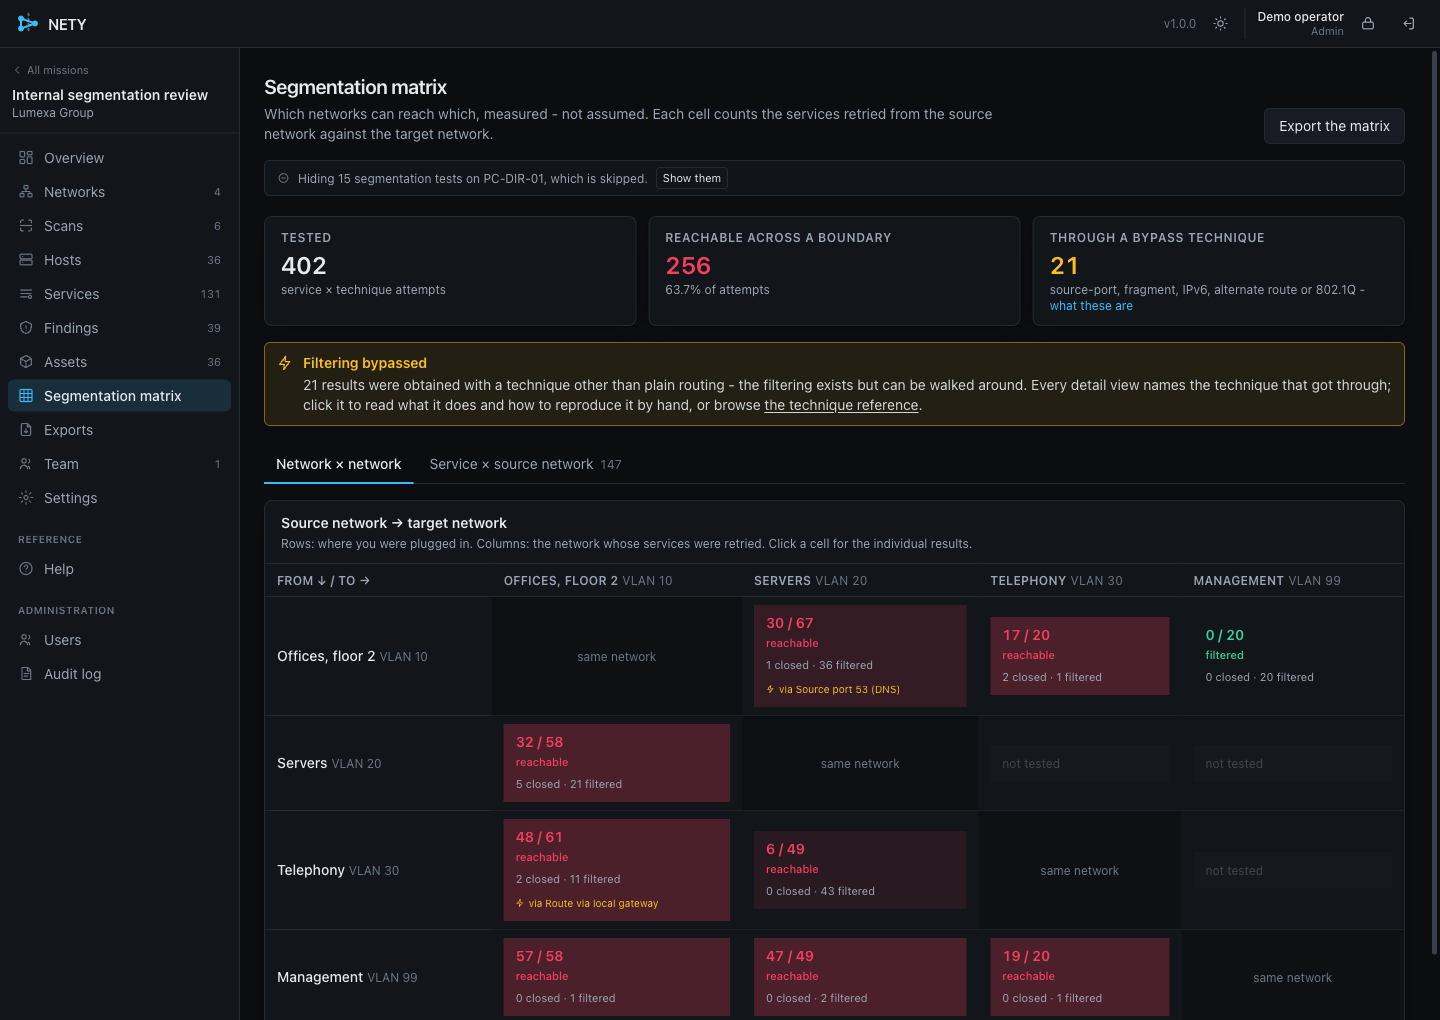
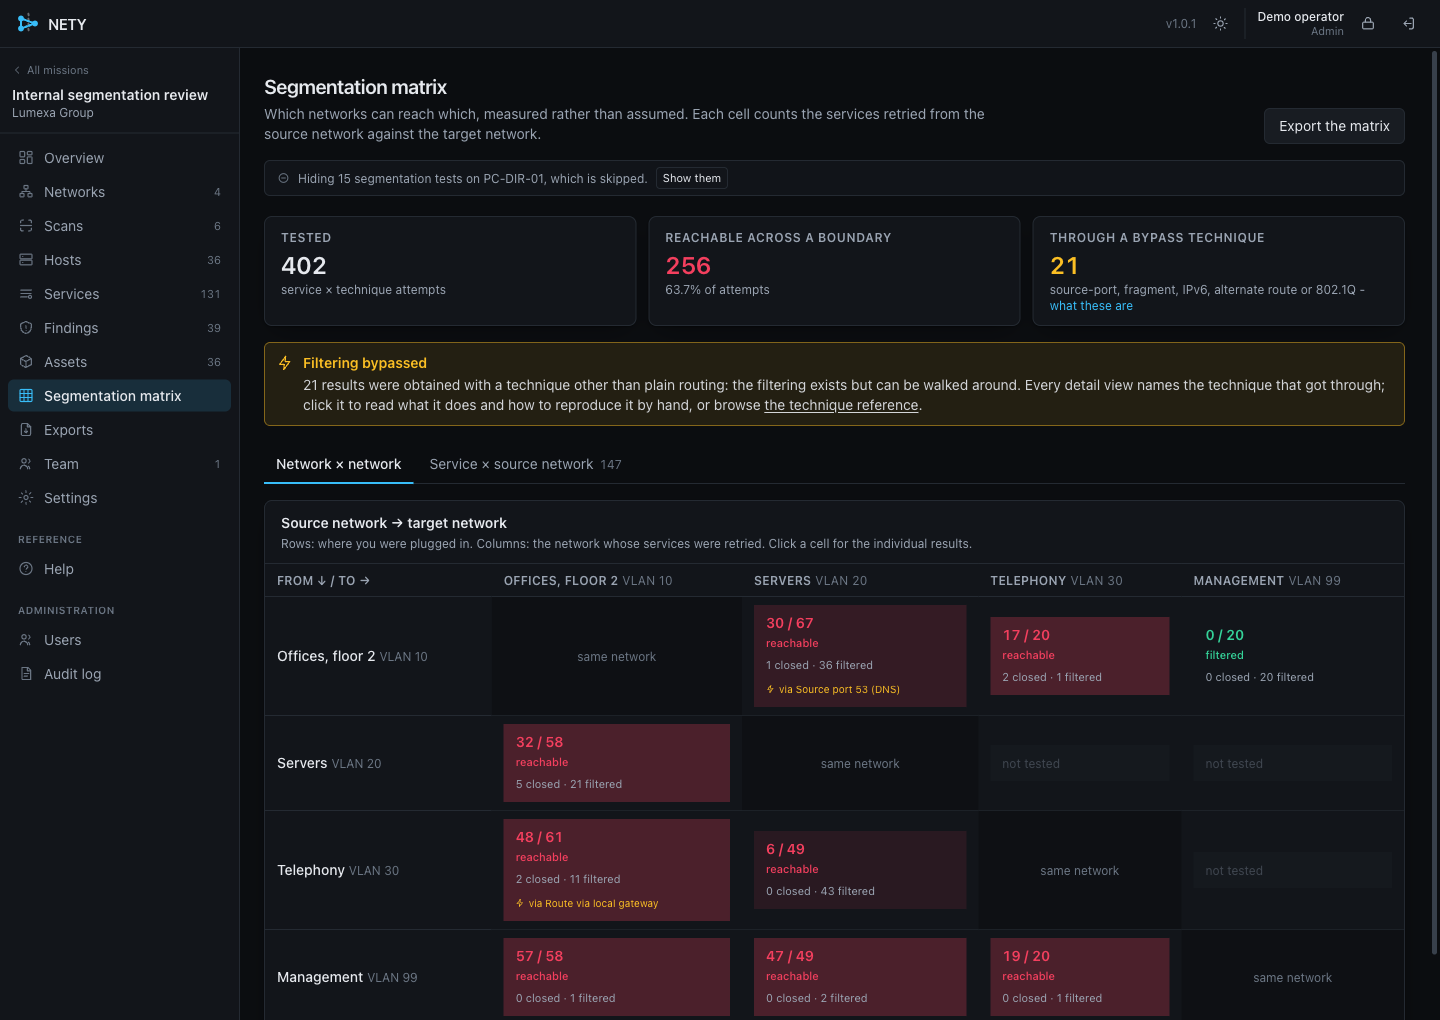
docs: this is segmentation testing, and a VLAN is only one way to draw the boundary
The tagline said "map every VLAN", which names the wrong thing. A VLAN
filters nothing on its own: it is an 802.1Q split of a layer-2 broadcast
domain, and two VLANs are separated only in the sense that a broadcast in one
does not reach the other. Whatever routes between them, a router, a layer-3
switch or a firewall, is where the filtering lives, and that filtering is
layer 3.

So what NETY measures is the IP filtering between segments, and that is the
same test whether the boundary is a VLAN, a firewall zone, a DMZ against an
office network, separate subnets with no VLAN anywhere, or a guest SSID. The
tool was already built this way: its unit is a *network*, which is a point you
attach to, and every routing-level technique works against any layer-3
boundary. Only the prose claimed otherwise.

So the tagline is "Network segmentation testing for internal pentests.
Measured, not assumed", with VLANs kept as the first example, because it is
the commonest case on an internal and the word a pentester searches for.

What stays VLAN-specific stays VLAN-specific and is now said to be: the
passive CDP, LLDP, DTP and STP recon of a switch port, and the hopping
techniques. Those attack the layer-2 split itself rather than the filtering
above it, which is why they are the ones that can make a boundary disappear
rather than merely find a hole in it. Both are skipped where there is no
switch port, and the README and the field manual say so.
[…]

Changed region(s): [[0.5, 0.3647, 0.9688, 0.3951], [0.375, 0.0912, 0.6875, 0.1216], [0.1875, 0.1216, 0.375, 0.152]]

diff --git a/web/src/pages/mission/ScanLauncherPage.tsx b/web/src/pages/mission/ScanLauncherPage.tsx
@@ -370,7 +370,7 @@ export default function ScanLauncherPage() {
         <Card>
           <EmptyState
             icon={<NetworkIcon width={20} height={20} />}
-            title="Create a network for the VLAN you are plugged into"
+            title="Create a network for the segment you are plugged into"
             description="A scan always runs from a network: it tells NETY which interface to use, which prefixes are local and what the switch port looks like."
             action={
               <LinkButton to="../networks" variant="primary">
@@ -712,8 +712,8 @@ export default function ScanLauncherPage() {
                 Nothing is discovered and no address is scanned. The test replays the
                 hosts and services <strong>already inventoried</strong> on the networks
                 you pick, from where you are plugged in now, and records what answers.
-                Scan each VLAN once from inside it, then come here from each position in
-                turn: one run per direction fills that row of the matrix.
+                Scan each segment once from inside it, then come here from each position
+                in turn: one run per direction fills that row of the matrix.
               </InlineAlert>
 
               <div>
@@ -723,8 +723,8 @@ export default function ScanLauncherPage() {
                 </p>
                 {otherNetworks.length === 0 ? (
                   <InlineAlert tone="warn">
-                    This mission has only one network. Add the other VLAN and discover it
-                    from inside before testing segmentation.
+                    This mission has only one network. Add the other segment and discover
+                    it from inside before testing segmentation.
                   </InlineAlert>
                 ) : (
                   <div className="grid gap-2 sm:grid-cols-2 lg:grid-cols-3">
@@ -772,7 +772,7 @@ export default function ScanLauncherPage() {
                   <InlineAlert tone="warn" className="mt-3">
                     {sourceIds.length > 0
                       ? 'Nothing has been discovered on the networks you ticked, so there is nothing to replay. Run a discovery from inside each of them first, or tick a network that has results.'
-                      : 'No other network has any result yet. Plug into each VLAN in turn and run a discovery there, then come back and test segmentation.'}
+                      : 'No other network has any result yet. Plug into each segment in turn and run a discovery there, then come back and test segmentation.'}
                   </InlineAlert>
                 )}
                 {reachableTargets.services > 0 && (

diff --git a/web/src/pages/mission/OverviewPage.tsx b/web/src/pages/mission/OverviewPage.tsx
@@ -123,7 +123,7 @@ export default function OverviewPage() {
         <Card className="mt-5">
           <EmptyState
             icon={<NetworkIcon width={20} height={20} />}
-            title="Create a network for the VLAN you are plugged into"
+            title="Create a network for the segment you are plugged into"
             description="A network records the segment you are attached to: its interface, addressing, gateway, DNS and the passive L2 recon of the switch port. Everything else in the mission hangs off it."
             action={
               canWrite && (
@@ -193,7 +193,7 @@ export default function OverviewPage() {
           <Card className="mt-4">
             <CardHeader
               title="Findings by network"
-              description="Which VLAN carries the exposure, worst first. Each bar is one network, stacked critical first and scaled against the busiest network."
+              description="Which segment carries the exposure, worst first. Each bar is one network, stacked critical first and scaled against the busiest network."
               actions={
                 <LinkButton to={`${base}/findings`} size="sm">
                   All findings
@@ -289,7 +289,7 @@ export default function OverviewPage() {
             <Card>
               <CardHeader
                 title="Networks"
-                description="Each VLAN or attachment point you declared"
+                description="Each segment or attachment point you declared"
                 actions={
                   <LinkButton to={`${base}/networks`} size="sm">
                     Manage

diff --git a/web/src/pages/mission/NetworksPage.tsx b/web/src/pages/mission/NetworksPage.tsx
@@ -185,7 +185,7 @@ function NetworkFormModal({
       onClose={onClose}
       size="lg"
       title={existing ? `Edit ${existing.name}` : 'New network'}
-      description="One network per VLAN or attachment point you plug into."
+      description="One network per segment you plug into: a VLAN, a firewall zone, a plain subnet."
       footer={
         <>
           <Button onClick={onClose}>Cancel</Button>
@@ -607,7 +607,7 @@ export default function NetworksPage() {
     <PageContainer>
       <PageHeader
         title="Networks"
-        description="The VLANs and attachment points of this mission, with the passive L2 recon of each switch port."
+        description="The segments of this mission, with the passive L2 recon of each switch port."
         actions={
           canWrite && (
             <Button
@@ -653,7 +653,7 @@ export default function NetworksPage() {
           <Card>
             <EmptyState
               icon={<NetworkIcon width={20} height={20} />}
-              title="Create a network for the VLAN you are plugged into"
+              title="Create a network for the segment you are plugged into"
               description="Plug into the segment, then let NETY auto-detect the interface: it reads the addressing, gateway, DNS and DHCP lease and pre-fills everything. Repeat for each VLAN you visit."
               action={
                 canWrite && (

diff --git a/web/src/pages/mission/MatrixPage.tsx b/web/src/pages/mission/MatrixPage.tsx
@@ -242,7 +242,7 @@ export default function MatrixPage() {
           <EmptyState
             icon={<MatrixIcon width={20} height={20} />}
             title="No segmentation result yet"
-            description="Plug into one VLAN, declare it as a network, then launch a segmentation scan: NETY replays every service discovered on the other networks from where you stand and fills this grid live."
+            description="Plug into one segment, declare it as a network, then launch a segmentation scan: NETY replays every service discovered on the other networks from where you stand and fills this grid live."
             action={
               <LinkButton to="../scans/new?kind=segmentation" variant="primary">
                 Launch a segmentation scan
@@ -474,7 +474,7 @@ export default function MatrixPage() {
             <Card className="mt-4">
               <CardHeader
                 title="Service × source network"
-                description="One row per service discovered on another VLAN; one column per position you tested from."
+                description="One row per service discovered on another segment; one column per position you tested from."
                 actions={
                   <SearchInput
                     value={query}

diff --git a/web/src/pages/MissionsPage.tsx b/web/src/pages/MissionsPage.tsx
@@ -393,7 +393,7 @@ export default function MissionsPage() {
                 }
                 description={
                   all.length === 0
-                    ? 'Create a mission for the engagement you are starting. You will then declare the VLAN you are plugged into as a network, and launch a discovery scan on it.'
+                    ? 'Create a mission for the engagement you are starting. You will then declare the segment you are plugged into as a network, and launch a discovery scan on it.'
                     : 'Clear the filter, or include archived missions.'
                 }
                 action={

diff --git a/cmd/nety/main.go b/cmd/nety/main.go
@@ -1,5 +1,5 @@
-// Command nety is the NETY server: an internal-network mapping and VLAN segmentation
-// testing platform.
+// Command nety is the NETY server: an internal-network mapping and network
+// segmentation testing platform.
 //
 //	nety serve                 start the web platform
 //	nety user add <name>       create an account
@@ -69,7 +69,7 @@ func run(args []string) error {
 }
 
 func usage() {
-	fmt.Fprint(os.Stderr, `NETY - internal network mapping and VLAN segmentation testing
+	fmt.Fprint(os.Stderr, `NETY: internal network mapping and network segmentation testing
 
 Usage:
   nety serve [flags]            start the web platform

diff --git a/internal/segment/segment.go b/internal/segment/segment.go
@@ -1,6 +1,7 @@
-// Package segment answers the question a VLAN segmentation audit exists to answer:
+// Package segment answers the question a network segmentation audit exists to answer:
 // plugged into network S, which of the services inventoried on networks T != S can
-// actually be reached, and how.
+// actually be reached, and how. The boundary between S and T is whatever the client
+// built it out of: a VLAN, a firewall zone, a plain subnet.
 //
 // For every (target, technique) pair it emits one model.ReachResult as soon as the
 // verdict is known, so the operator watches the reachability matrix fill up live.

diff --git a/internal/api/diff_api_test.go b/internal/api/diff_api_test.go
@@ -9,7 +9,7 @@ import (
 	"github.com/GoToolSharing/nety/internal/model"
 )
 
-// A scan of a VLAN only means something next to the previous one, which is what this
+// A scan of a segment only means something next to the previous one, which is what this
 // route answers. The seeding below walks the two passes in order so the finish stamps
 // come out in the right order too.
 

diff --git a/README.md b/README.md
@@ -2,8 +2,10 @@
 
 <img src="docs/images/logo.svg" alt="NETY" width="420">
 
-**Map every VLAN on an internal pentest, then measure which ones can actually
-reach each other.**
+**Network segmentation testing for internal pentests. Measured, not assumed.**
+
+Map every segment you can reach (VLANs, firewall zones, subnets), then find
+out which of them can actually talk to each other.
 
 [![CI](https://github.com/GoToolSharing/nety/actions/workflows/ci.yml/badge.svg)](https://github.com/GoToolSharing/nety/actions/workflows/ci.yml)
 [![Release](https://img.shields.io/github/v/release/GoToolSharing/nety?color=0ea5e9)](https://github.com/GoToolSharing/nety/releases/latest)
@@ -11,14 +13,21 @@ reach each other.**
 
 </div>
 
-You plug into a switch port, NETY maps that segment and fingerprints everything
-on it. You move to the next VLAN and repeat. Then, from any one of them, it
+You plug in somewhere, NETY maps that segment and fingerprints everything on
+it. You move to the next one and repeat. Then, from any one of them, it
 replays every service it found elsewhere and tells you exactly which flows
 cross the boundary, by plain routing or by working around the filtering.
 
+A VLAN on its own filters nothing: it is a layer-2 split of a broadcast
+domain. What actually holds, or does not, is the layer-3 filtering between
+segments, and that is the same test whether the boundary is a VLAN, a firewall
+zone, a DMZ or a guest SSID. The VLAN-specific part, the passive CDP, LLDP and
+DTP recon and the 802.1Q hopping techniques, is there too, and is simply
+skipped where there is no switch port to read.
+
 One static Go binary, an authenticated web interface, and no `nmap` or
 `masscan` subprocess: the scanning is native, so results stream out as they are
-found instead of landing in a file at the end. A colleague on the same VLAN
+found instead of landing in a file at the end. A colleague on the same network
 opens your IP in a browser, signs in, and watches the same scan live.
 
 ![Mission overview](docs/images/overview.png)
@@ -48,11 +57,16 @@ make test    # the whole test suite
 
 ## How it works
 
-### 1. One network per VLAN
+### 1. One network per segment
 
-Declare each attachment point. A passive layer-2 capture reads CDP and LLDP,
-the native and voice VLAN, the 802.1Q tags on the wire, and whether the port
-offers DTP. A port that negotiates trunking is a finding in itself.
+Declare each point you attach to: a VLAN access port, a firewall zone, a plain
+subnet.
+
+On a switch port there is a passive layer-2 capture as well, reading CDP and
+LLDP, the native and voice VLAN, the 802.1Q tags on the wire, and whether the
+port offers DTP. A port that negotiates trunking is a finding in itself. Where
+there is no switch port, over Wi-Fi or behind a firewall, that step is skipped
+and everything else works the same.
 
 ![Networks and switch-port recon](docs/images/networks.png)
 
@@ -66,7 +80,7 @@ exactly where it stopped. Kill the process mid-scan and it comes back as
 
 ![Live scan](docs/images/scan.png)
 
-### 3. Repeat on every VLAN
+### 3. Repeat on every segment
 
 Move the cable, add a network, scan again. Machines keep one identity across
 days and IP changes: NETY correlates the SMB server GUID, SNMP engine ID, SSH
@@ -76,10 +90,10 @@ brand-new one.
 
 ### 4. Test the segmentation
 
-From where you are plugged in now, every service discovered on the other VLANs
-is retried, several ways each: plain routing, ICMP, privileged source ports,
-IPv6, an alternate gateway, fragmentation, and optionally 802.1Q and DTP. The
-matrix is the deliverable.
+From where you are plugged in now, every service discovered on the other
+segments is retried, several ways each: plain routing, ICMP, privileged source
+ports, IPv6, an alternate gateway, fragmentation, and, where the boundary is a
+VLAN and you enable them, 802.1Q and DTP. The matrix is the deliverable.
 
 ![Segmentation matrix](docs/images/matrix.png)
 
@@ -115,7 +129,7 @@ the triage, the notes and the pending work units intact.
 | **Native scanning** | Stateless SYN with AF_PACKET and BPF, connect fallback, UDP with protocol payloads. No subprocess. |
 | **Live results** | Every host, port, service and finding is persisted and pushed to the browser the moment it is found. |
 | **Resumable** | A scan is a queue of work units. Pause, crash or reboot, it picks up where it stopped. |
-| **Stable identities** | Machines keep one entry across days, IP changes and VLANs. |
+| **Stable identities** | Machines keep one entry across days, IP changes and segments. |
 | **65 checks** | SMB signing, null sessions, anonymous LDAP, open Redis and Mongo, IPMI cipher zero, exposed admin consoles, weak TLS and more. |
 | **Segmentation matrix** | Reachability measured, not assumed, with the technique that got through named. |
 | **Multi-user** | Accounts, roles, an audit log, and a shared live view. |

diff --git a/docs/OPERATIONS.md b/docs/OPERATIONS.md
@@ -114,7 +114,7 @@ Practical notes:
 
 ## Sharing it with a colleague
 
-NETY serves HTTPS on every interface, so a colleague on the same VLAN just
+NETY serves HTTPS on every interface, so a colleague on the same network just
 opens your address. The startup log lists the URLs.
 
 ```
@@ -168,9 +168,34 @@ can accidentally flood a client network from the web interface.
 
 ## Segmentation testing
 
-1. Map each VLAN with a discovery scan first: segmentation has nothing to
+### What is actually being tested
+
+A VLAN filters nothing. It is an 802.1Q split of a layer-2 broadcast domain,
+and two VLANs are separated only in the sense that a broadcast in one does not
+reach the other. Whatever routes between them, a router, a layer-3 switch or a
+firewall, is where the filtering lives, and that filtering is layer 3.
+
+So "testing the VLANs" means, almost always, testing the IP filtering between
+segments. That is the same test whether the segments are VLANs, firewall
+zones, a DMZ against an office network, separate subnets with no VLAN at all,
+or a guest SSID. NETY's unit is a *network*, which is a point you attach to
+rather than a VLAN, and every routing-level technique works against any
+layer-3 boundary.
+
+Two things are genuinely VLAN-specific, and NETY skips them where there is no
+switch port to read:
+
+- the passive CDP, LLDP, DTP and STP recon of the port;
+- the hopping techniques: 802.1Q sub-interfaces, DTP trunk negotiation and
+  double tagging. These attack the layer-2 split itself rather than the
+  filtering above it, which is why they are the ones that can actually make a
+  boundary disappear rather than merely find a hole in it.
+
+### Running one
+
+1. Map each segment with a discovery scan first: segmentation has nothing to
    replay otherwise.
-2. Plug into the VLAN you want to test *from*, select it, and start a
+2. Plug into the segment you want to test *from*, select it, and start a
    **segmentation** scan.
 3. The layer-2 techniques (802.1Q sub-interfaces, DTP trunk negotiation,
    double tagging) are **off by default**. They change switch-port state and
@@ -236,7 +261,7 @@ matters to the report, prove it another way.
 ## Trying it without a client network
 
 The repository carries an integration lab: three Docker networks standing in
-for VLANs, with real services on them.
+for separate segments, with real services on them.
 
 ```sh
 make lab-up      # bring the lab up

diff --git a/docs/ARCHITECTURE.md b/docs/ARCHITECTURE.md
@@ -8,16 +8,18 @@ they are found.
 
 ## Workflow
 
-1. Operator plugs into VLAN A and creates a *Network* "VLAN A" in the mission.
+1. Operator plugs into segment A and creates a *Network* for it in the mission.
+   A segment is whatever the boundary happens to be: a VLAN, a firewall zone, a
+   plain subnet.
    NETY auto-detects interface/IP/prefix/gateway/DNS/DHCP and passively sniffs
    CDP/LLDP/DTP/STP/802.1Q to learn about the switch port.
 2. Launches a *discovery* scan: host discovery → port scan → service
    fingerprinting → identity collection → asset correlation → light checks.
-3. Repeats on VLAN B, C, …
-4. Launches *segmentation* scans: plugged on VLAN B, NETY replays every service
+3. Repeats on segment B, C, …
+4. Launches *segmentation* scans: plugged on segment B, NETY replays every service
    discovered on the other networks using several techniques and fills a
    source→target reachability matrix.
-5. *Assets* give machines a stable identity across days, IPs and VLANs, so a
+5. *Assets* give machines a stable identity across days, IPs and segments, so a
    re-scan the next day does not produce a brand-new inventory.
 6. Everything exports to JSON, CSV, Nmap XML, gnmap, Markdown, HTML, XLSX, txt.
 
@@ -107,7 +109,7 @@ Node, nmap or anything else on the host.
 | `internal/identity` | identity evidence collectors + asset correlator | `identity.NewCollector(log)`, `identity.NewCorrelator()` |
 | `internal/checks` | light misconfiguration checks | `checks.New(log) engine.Checker` |
 | `internal/netif` | interfaces, routes, VLAN sub-interfaces, L2 sniffing | `netif.New(log) engine.NetInspector` |
-| `internal/segment` | inter-VLAN reachability & bypass techniques | `segment.New(log, ps, ni) engine.SegmentTester` |
+| `internal/segment` | cross-segment reachability and bypass techniques | `segment.New(log, ps, ni) engine.SegmentTester` |
 | `internal/export` | export formats | `export.New() engine.Exporter` |
 | `internal/store` | SQLite persistence (modernc, pure Go) | `store.Open(path) (*store.Store, error)` |
 | `internal/bus` | in-process event bus → WebSocket | `bus.New()` |

diff --git a/docs/API.md b/docs/API.md
@@ -38,7 +38,7 @@ missions), `viewer` (read-only on their missions).
 `GET /api/missions/{id}/members` · `PUT /api/missions/{id}/members` `{user_ids: []}`
 `GET /api/missions/{id}/summary`: counts per network, severity totals, matrix size
 
-## Networks (one per VLAN / attachment point)
+## Networks (one per segment, which is to say one per attachment point)
 
 `GET /api/missions/{id}/networks`
 `POST /api/missions/{id}/networks` `{name, vlan_id?, description?, interface?, local_ip?, prefixes?, gateway?, dns_servers?}`
